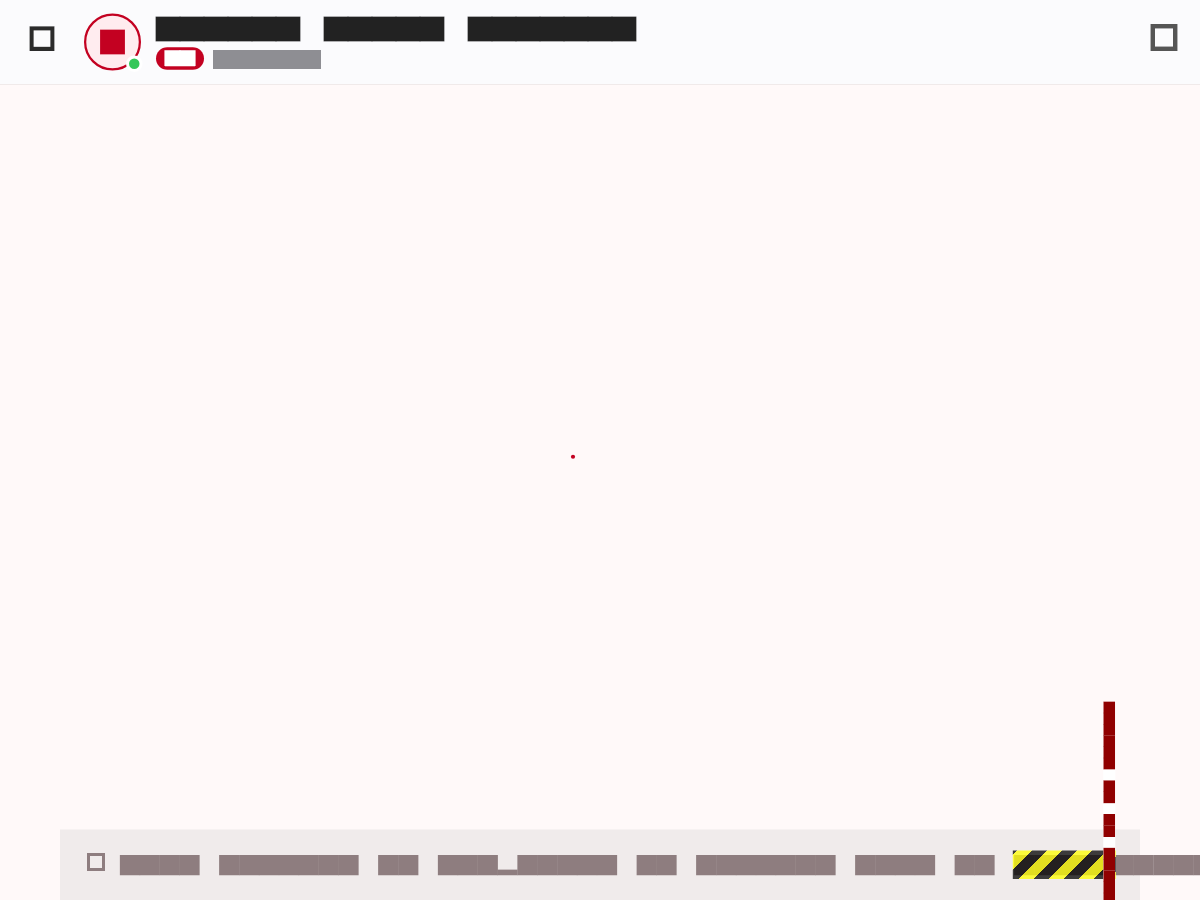
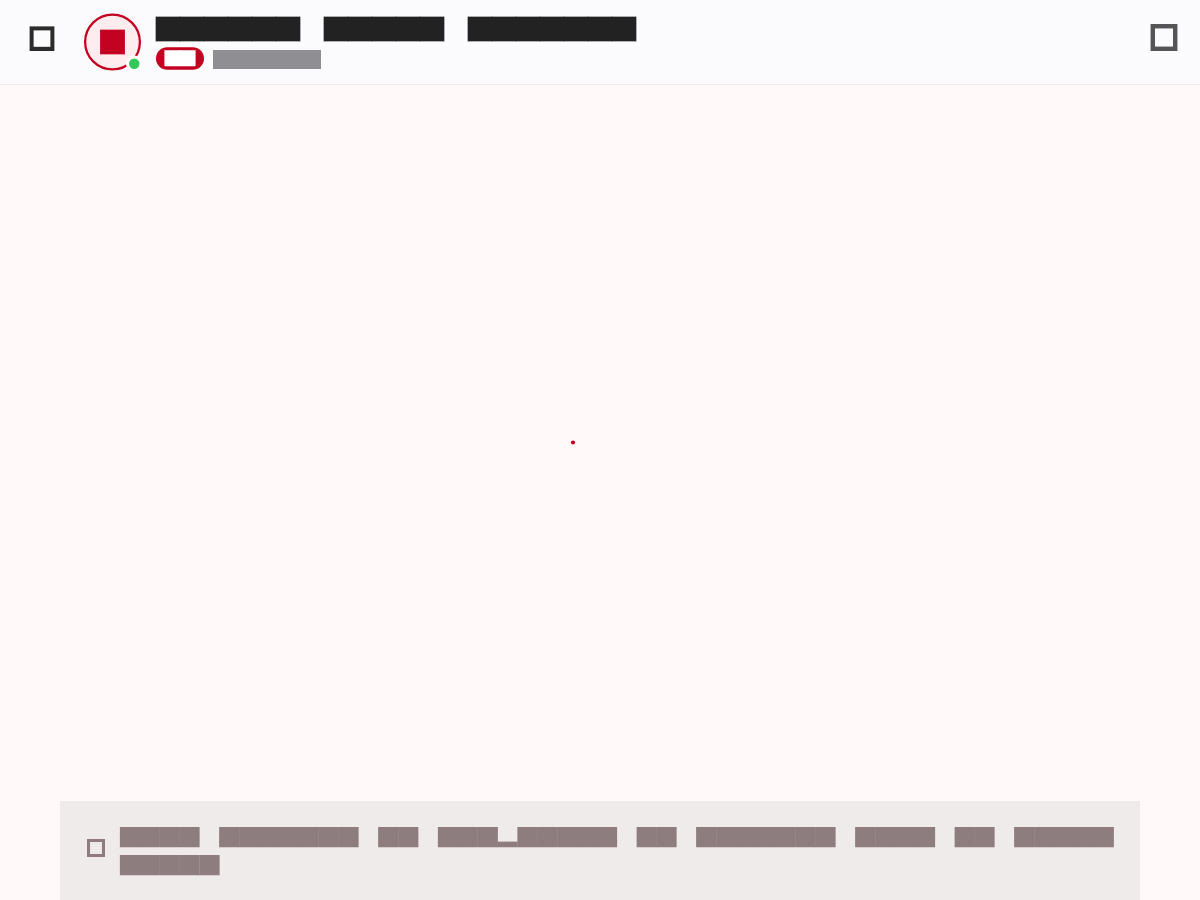
feat(h05b): post-accept journey hardening, FCM token deferred registration, cold-start retry with backoff, and 10s polling fallbacks

Changed region(s): [[0.0617, 0.7778, 1.0, 1.0]]

diff --git a/blood_pulse/lib/services/api_client.dart b/blood_pulse/lib/services/api_client.dart
@@ -57,8 +57,8 @@ class ApiClient {
   static String get defaultServerUrl => ApiConfig.baseUrl;
   static String get defaultBaseUrl => ApiConfig.baseUrl;
 
-  static const Duration connectTimeout = Duration(seconds: 75);
-  static const Duration receiveTimeout = Duration(seconds: 75);
+  static const Duration connectTimeout = Duration(seconds: 60);
+  static const Duration receiveTimeout = Duration(seconds: 60);
 
   static const String _kAccessToken = 'bp_jwt_access_token';
   static const String _kRefreshToken = 'bp_jwt_refresh_token';
@@ -873,11 +873,18 @@ class ApiClient {
         final authHeaders = await _getAuthHeaders();
         http.Response response = await requestFn(authHeaders).timeout(receiveTimeout);
 
-        // Cold-start / gateway retry for Render / Vercel proxy
-        if ((response.statusCode == 502 || response.statusCode == 503 || response.statusCode == 504) && attempt < maxAttempts) {
-          debugPrint('[ApiClient] Server gateway status ${response.statusCode}. Retrying in 2.5s (attempt $attempt)...');
-          await Future.delayed(const Duration(milliseconds: 2500));
-          continue;
+        // Cold-start / gateway retry for Render / Vercel proxy with exponential backoff
+        if (response.statusCode == 502 || response.statusCode == 503 || response.statusCode == 504) {
+          if (attempt < maxAttempts) {
+            final backoffMs = attempt * 2000;
+            debugPrint('[ApiClient] Server cold-start status ${response.statusCode}. Retrying in ${backoffMs}ms (attempt $attempt/$maxAttempts)...');
+            await Future.delayed(Duration(milliseconds: backoffMs));
+            continue;
+          }
+          throw const ApiException(
+            'Server is waking up, please wait a moment... (সার্ভার চালু হচ্ছে, কিছুক্ষণ অপেক্ষা করুন...)',
+            statusCode: 503,
+          );
         }
 
         if (response.statusCode == 401) {
@@ -937,11 +944,12 @@ class ApiClient {
           continue;
         }
         if (attempt < maxAttempts) {
-          debugPrint('[ApiClient] TimeoutException on attempt $attempt. Retrying in 2.5s...');
-          await Future.delayed(const Duration(milliseconds: 2500));
+          final backoffMs = attempt * 2000;
+          debugPrint('[ApiClient] TimeoutException on attempt $attempt. Retrying in ${backoffMs}ms...');
+          await Future.delayed(Duration(milliseconds: backoffMs));
           continue;
         }
-        throw ApiException('Request timed out. Server did not respond in time.', rawError: e);
+        throw ApiException('Server is waking up, please wait a moment... (সার্ভার চালু হচ্ছে, কিছুক্ষণ অপেক্ষা করুন...)', statusCode: 504, rawError: e);
       } on FormatException catch (e) {
         throw ApiException('Malformed response format received.', rawError: e);
       } on http.ClientException catch (e) {

diff --git a/blood_pulse/lib/features/blood_hub/presentation/donor_tracking_map.dart b/blood_pulse/lib/features/blood_hub/presentation/donor_tracking_map.dart
@@ -2,6 +2,8 @@
 // Part of the Blood Pulse project — unauthorized copying or distribution prohibited.
 
 import 'dart:async';
+import 'dart:convert';
+import '../../../services/api_client.dart';
 import 'dart:math' as math;
 import 'package:flutter/material.dart';
 import 'package:flutter_map/flutter_map.dart';
@@ -73,6 +75,7 @@ class DonorTrackingMapScreen extends ConsumerStatefulWidget {
 class _DonorTrackingMapScreenState extends ConsumerState<DonorTrackingMapScreen> {
   final MapController _mapController = MapController();
   StreamSubscription? _trackingSubscription;
+  Timer? _pollTimer;
 
   late LatLng _hospitalLocation;
   late LatLng _donorLocation;
@@ -92,6 +95,8 @@ class _DonorTrackingMapScreenState extends ConsumerState<DonorTrackingMapScreen>
     _calculateInitialDistanceAndEta();
     if (widget.enableLiveTracking) {
       _initLiveTracking();
+      // 10s fallback polling on tracking for network/stream drops (Part 7)
+      _pollTimer = Timer.periodic(const Duration(seconds: 10), (_) => _pollLatestPosition());
     }
   }
 
@@ -149,8 +154,35 @@ class _DonorTrackingMapScreenState extends ConsumerState<DonorTrackingMapScreen>
     _etaMinutes = math.max(2, (transitHours * 60).ceil());
   }
 
+  Future<void> _pollLatestPosition() async {
+    if (!mounted || widget.requestId == null || widget.requestId!.isEmpty) return;
+    try {
+      final res = await ApiClient().get('/api/blood-requests/${widget.requestId}/');
+      if (res.statusCode == 200 && mounted) {
+        final json = jsonDecode(res.body) as Map<String, dynamic>;
+        final tr = json['tracking'] as Map<String, dynamic>?;
+        if (tr != null) {
+          final lat = (tr['donor_latitude'] ?? tr['latitude'] as num?)?.toDouble();
+          final lng = (tr['donor_longitude'] ?? tr['longitude'] as num?)?.toDouble();
+          if (lat != null && lng != null) {
+            setState(() {
+              _donorLocation = LatLng(lat, lng);
+              if (tr['eta_minutes'] != null) {
+                _etaMinutes = (tr['eta_minutes'] as num).toInt();
+              }
+              if (tr['distance_km'] != null) {
+                _distanceKm = (tr['distance_km'] as num).toDouble();
+              }
+            });
+          }
+        }
+      }
+    } catch (_) {}
+  }
+
   @override
   void dispose() {
+    _pollTimer?.cancel();
     _trackingSubscription?.cancel();
     if (widget.isDonorView) {
       TrackingService.instance.stopTracking();

diff --git a/blood_pulse/lib/services/fcm_service.dart b/blood_pulse/lib/services/fcm_service.dart
@@ -210,6 +210,9 @@ class FcmService {
       );
 
       debugPrint('[FCM] permission: ${settings.authorizationStatus.name}');
+      if (settings.authorizationStatus == AuthorizationStatus.denied) {
+        debugPrint('[FCM] Push notifications denied by user. Silently falling back to in-app polling.');
+      }
 
       await FirebaseMessaging.instance
           .setForegroundNotificationPresentationOptions(
@@ -242,23 +245,9 @@ class FcmService {
         debugPrint('👤 User UID: $userUid');
       }
       debugPrint('🔑 Token: $token');
-      if (token != null) {
-        final accessToken = await ApiClient().getAccessToken();
-        if (accessToken != null && accessToken.isNotEmpty) {
-          try {
-            final response = await ApiClient().post('/api/users/update-fcm/', body: {
-              'token': token,
-              'fcm_token': token,
-            });
-            debugPrint('[DEBUG] FCM token posted: ${response.statusCode}');
-            debugPrint('[FCM] Token registered with Django backend.');
-          } catch (apiErr) {
-            debugPrint('[FCM] Failed to register token with backend: $apiErr');
-          }
-        } else {
-          debugPrint('[FCM] User is unauthenticated; deferring /api/users/update-fcm/ until login/registration.');
-        }
-      }
+      // Pre-login HTTP calls to /api/users/update-fcm/ are strictly forbidden to prevent 401s.
+      // Registration is deferred until after successful authentication in AuthNotifier.
+      debugPrint('[FCM] Token retrieved. Backend registration deferred until authenticated login.');
     } catch (e) {
       debugPrint('[FCM] token fetch error: $e');
     }

diff --git a/blood_pulse/lib/features/blood_hub/presentation/screens/journey_detail_screen.dart b/blood_pulse/lib/features/blood_hub/presentation/screens/journey_detail_screen.dart
@@ -104,9 +104,9 @@ class _JourneyDetailScreenState extends ConsumerState<JourneyDetailScreen> {
   @override
   void initState() {
     super.initState();
-    // Poll every 15 s for live status + location updates
+    // Poll every 10s fallback for live status + location updates (Part 7)
     if (widget.enablePolling) {
-      _pollTimer = Timer.periodic(const Duration(seconds: 15), (_) {
+      _pollTimer = Timer.periodic(const Duration(seconds: 10), (_) {
         if (mounted) ref.invalidate(journeyDetailProvider(widget.journeyId));
       });
     }

diff --git a/blood_pulse/lib/features/auth/presentation/providers/auth_notifier.dart b/blood_pulse/lib/features/auth/presentation/providers/auth_notifier.dart
@@ -266,6 +266,11 @@ class AuthNotifier extends Notifier<AuthState> {
           user: user,
           errorMessage: null,
         );
+        if (statusEnum == AuthStatus.authenticated) {
+          try {
+            FcmService.instance.updateFCMToken();
+          } catch (_) {}
+        }
       } else if (response.statusCode == 401) {
         // Token is genuinely invalid and refresh failed with 401 → clear session
         await _apiClient.clearTokens();

diff --git a/blood_pulse/lib/services/chat_transport.dart b/blood_pulse/lib/services/chat_transport.dart
@@ -44,7 +44,7 @@ class HttpPollingChatTransport implements ChatTransport {
   final Map<String, List<ChatMessageModel>> _cache = {};
   final Map<String, int> _idlePollCounts = {};
 
-  static const Duration _activeInterval = Duration(seconds: 2);
+  static const Duration _activeInterval = Duration(seconds: 3);
   static const Duration _idleInterval = Duration(seconds: 5);
   static const Duration _deepIdleInterval = Duration(seconds: 10);
 

diff --git a/blood_pulse_backend/api/services/notify.py b/blood_pulse_backend/api/services/notify.py
@@ -44,6 +44,7 @@ def send_fcm_multicast_batches(tokens_with_donors: list, title: str, body: str, 
     total_sent = 0
     total_failed = 0
     invalid_tokens_cleared = 0
+    raw_responses = []
 
     batch_size = FCM_BATCH_SIZE or 500
     for i in range(0, len(tokens_with_donors), batch_size):
@@ -65,6 +66,12 @@ def send_fcm_multicast_batches(tokens_with_donors: list, title: str, body: str, 
 
             # Process responses to catch invalid tokens
             for idx, resp in enumerate(response.responses):
+                raw_responses.append({
+                    'index': idx,
+                    'success': resp.success,
+                    'message_id': getattr(resp, 'message_id', None),
+                    'exception': str(resp.exception) if getattr(resp, 'exception', None) else None,
+                })
                 if not resp.success:
                     err_str = str(resp.exception).lower()
                     if any(x in err_str for x in ['unregistered', 'invalid_argument', 'invalid-registration-token', 'not_found']):
@@ -84,6 +91,7 @@ def send_fcm_multicast_batches(tokens_with_donors: list, title: str, body: str, 
         'sent': total_sent,
         'failed': total_failed,
         'invalid_tokens_cleared': invalid_tokens_cleared,
+        'raw_responses': raw_responses,
     }
 
 
@@ -137,6 +145,7 @@ def send_push_to_user(user, title: str, body: str, data_payload: dict = None, dr
         'sent': res['sent'],
         'failed': res['failed'],
         'invalid_tokens_cleared': res['invalid_tokens_cleared'],
+        'raw_responses': res.get('raw_responses', []),
         'dry_run': False,
     }
 

diff --git a/blood_pulse_backend/api/management/commands/send_test_push.py b/blood_pulse_backend/api/management/commands/send_test_push.py
@@ -127,6 +127,6 @@ class Command(BaseCommand):
             self.stdout.write(f"Tokens targeted: {result['tokens_count']}")
             self.stdout.write(f"Sent successfully: {result.get('sent', 0)}")
             self.stdout.write(f"Failed deliveries: {result.get('failed', 0)}")
-            self.stdout.write(f"Raw FCM Response: {result.get('raw_response', result)}")
+            self.stdout.write(f"Raw FCM Response: {result.get('raw_responses') if result.get('raw_responses') is not None else result.get('raw_response', result)}")
             if result.get('invalid_tokens_cleared', 0) > 0:
                 self.stdout.write(self.style.NOTICE(f"Deactivated {result['invalid_tokens_cleared']} invalid/expired tokens."))
